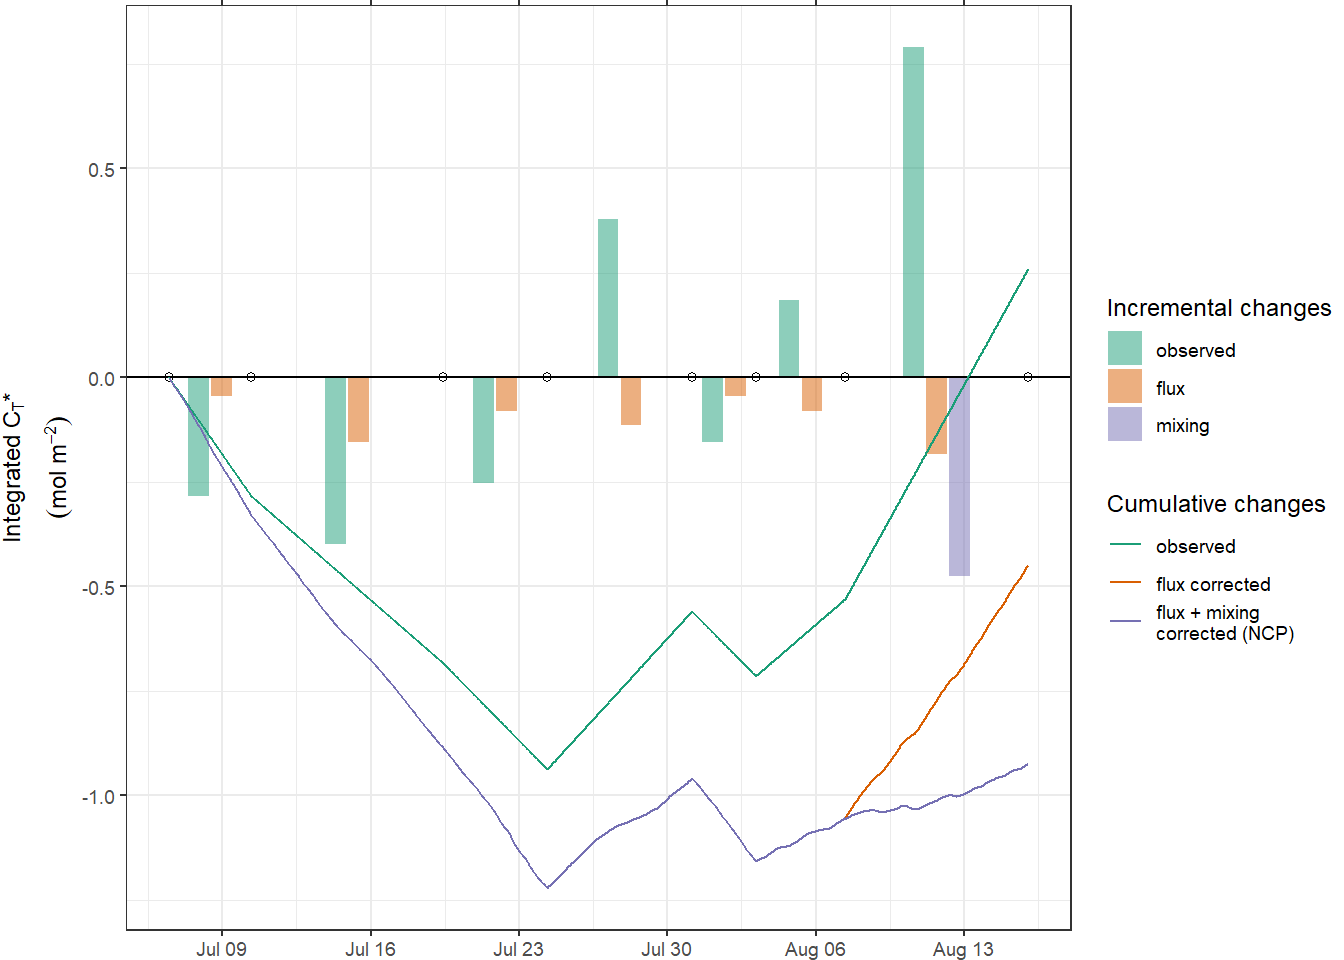
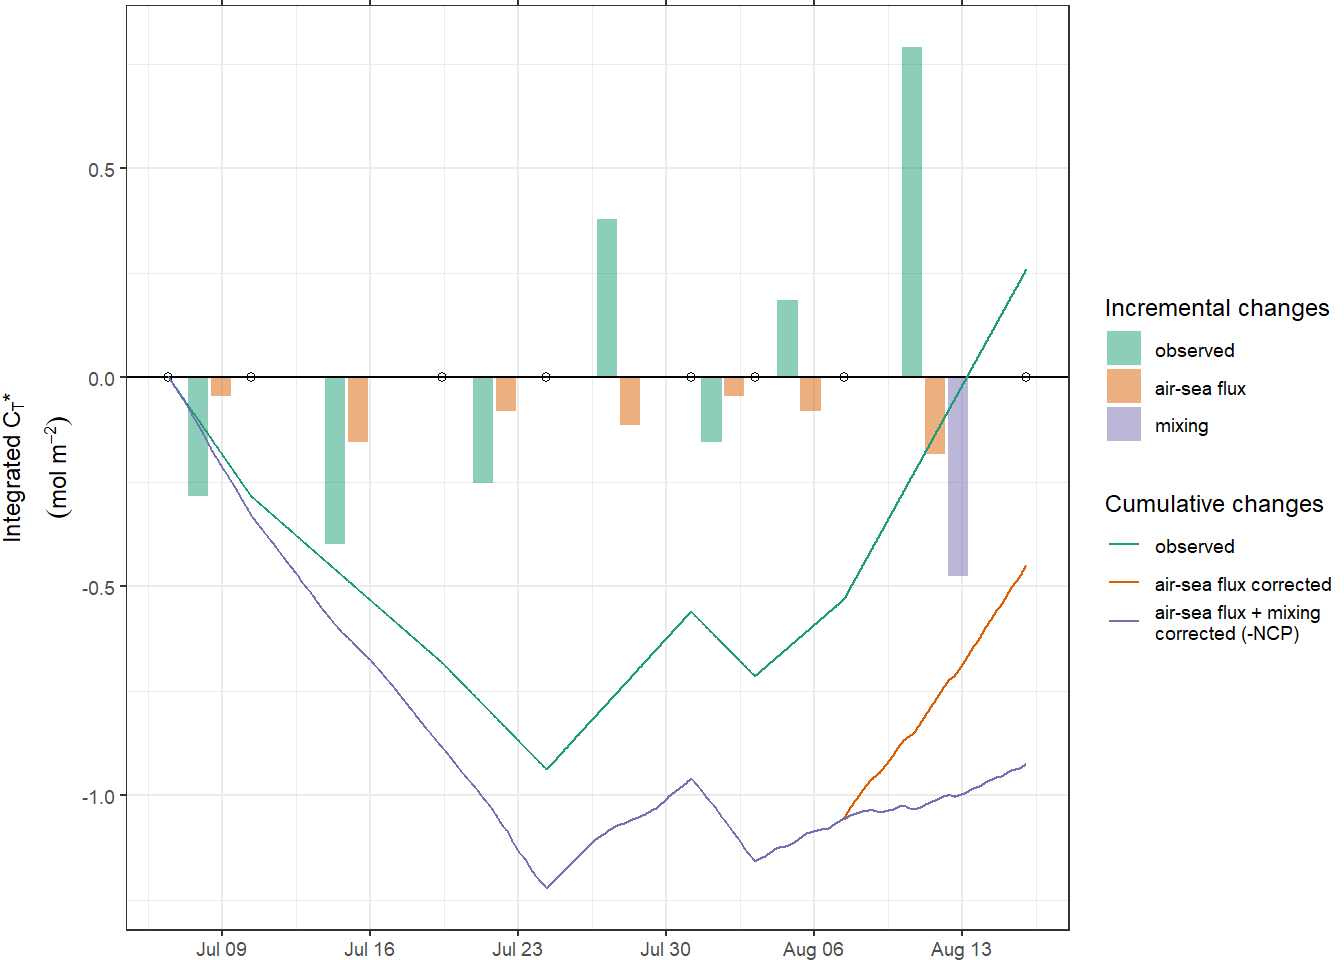
Build site.

diff --git a/docs/NCP_best_guess.html b/docs/NCP_best_guess.html
@@ -451,7 +451,7 @@ div.tocify {
 
 <h1 class="title toc-ignore">NCP best guess</h1>
 <h4 class="author">Jens Daniel Müller</h4>
-<h4 class="date">20 February, 2021</h4>
+<h4 class="date">30 March, 2021</h4>
 
 </div>
 
@@ -476,7 +476,7 @@ div.tocify {
 <div class="tab-content">
 <div id="summary" class="tab-pane fade in active">
 <p>
-<strong>Last updated:</strong> 2021-02-20
+<strong>Last updated:</strong> 2021-03-30
 </p>
 <p>
 <strong>Checks:</strong> <span class="glyphicon glyphicon-ok text-success" aria-hidden="true"></span> 7 <span class="glyphicon glyphicon-exclamation-sign text-danger" aria-hidden="true"></span> 0
@@ -567,16 +567,16 @@ This reproducible <a href="http://rmarkdown.rstudio.com">R Markdown</a> analysis
 <div class="panel panel-default">
 <div class="panel-heading">
 <p class="panel-title">
-<a data-toggle="collapse" data-parent="#workflowr-checks" href="#strongRepositoryversionstrongahrefhttpsgithubcomjensdanielmuellerBloomSailtreeac99c61419331b909c4f08f84ae624f9da63f239targetblankac99c61a"> <span class="glyphicon glyphicon-ok text-success" aria-hidden="true"></span> <strong>Repository version:</strong> <a href="https://github.com/jens-daniel-mueller/BloomSail/tree/ac99c61419331b909c4f08f84ae624f9da63f239" target="_blank">ac99c61</a> </a>
+<a data-toggle="collapse" data-parent="#workflowr-checks" href="#strongRepositoryversionstrongahrefhttpsgithubcomjensdanielmuellerBloomSailtreea520c10a35968558466784d6cc65530aebe15742targetblanka520c10a"> <span class="glyphicon glyphicon-ok text-success" aria-hidden="true"></span> <strong>Repository version:</strong> <a href="https://github.com/jens-daniel-mueller/BloomSail/tree/a520c10a35968558466784d6cc65530aebe15742" target="_blank">a520c10</a> </a>
 </p>
 </div>
[2 lines of base64/hex data omitted]
 <div class="panel-body">
 <p>
 Great! You are using Git for version control. Tracking code development and connecting the code version to the results is critical for reproducibility.
 </p>
 <p>
-The results in this page were generated with repository version <a href="https://github.com/jens-daniel-mueller/BloomSail/tree/ac99c61419331b909c4f08f84ae624f9da63f239" target="_blank">ac99c61</a>. See the <em>Past versions</em> tab to see a history of the changes made to the R Markdown and HTML files.
+The results in this page were generated with repository version <a href="https://github.com/jens-daniel-mueller/BloomSail/tree/a520c10a35968558466784d6cc65530aebe15742" target="_blank">a520c10</a>. See the <em>Past versions</em> tab to see a history of the changes made to the R Markdown and HTML files.
 </p>
 <p>
 Note that you need to be careful to ensure that all relevant files for the analysis have been committed to Git prior to generating the results (you can use <code>wflow_publish</code> or <code>wflow_git_commit</code>). workflowr only checks the R Markdown file, but you know if there are other scripts or data files that it depends on. Below is the status of the Git repository when the results were generated:
@@ -587,6 +587,9 @@ Ignored files:
     Ignored:    .Rproj.user/
     Ignored:    data/
     Ignored:    output/Plots/Figures_publication/.tmp.drivedownload/
+
+Untracked files:
+    Untracked:  data_os-2020-120_submission.zip
 
 </code></pre>
 <p>
@@ -625,6 +628,40 @@ Message
 </tr>
 </thead>
 <tbody>
+<tr>
+<td>
+Rmd
+</td>
+<td>
+<a href="https://github.com/jens-daniel-mueller/BloomSail/blob/a520c10a35968558466784d6cc65530aebe15742/analysis/NCP_best_guess.Rmd" target="_blank">a520c10</a>
+</td>
+<td>
+jens-daniel-mueller
+</td>
+<td>
+2021-03-30
+</td>
+<td>
+revised figure according to RC1
+</td>
+</tr>
+<tr>
+<td>
+html
+</td>
+<td>
+<a href="https://rawcdn.githack.com/jens-daniel-mueller/BloomSail/82145cc414443ab6939af304b470387a9f4a775f/docs/NCP_best_guess.html" target="_blank">82145cc</a>
+</td>
+<td>
+jens-daniel-mueller
+</td>
+<td>
+2021-02-20
+</td>
+<td>
+Build site.
+</td>
+</tr>
 <tr>
 <td>
 Rmd
@@ -5235,7 +5272,7 @@ rm(Sc_W14)</code></pre>
   geom_path(aes(y = flux)) +
   scale_x_datetime(date_breaks = &quot;week&quot;,
                    sec.axis = dup_axis()) +
-  labs(y = expression(atop(F[&quot;daily&quot;], (mol ~ m ^ {
+  labs(y = expression(atop(F[&quot;air-sea, daily&quot;], (mol ~ m ^ {
     -2
   } ~ d ^ {
     -1
@@ -5261,7 +5298,7 @@ p_flux_cum &lt;- tm_og %&gt;%
   scale_fill_discrete(guide = FALSE) +
   scale_x_datetime(date_breaks = &quot;week&quot;,
                    sec.axis = dup_axis()) +
-  labs(y = expression(atop(F[&quot;cum&quot;],
+  labs(y = expression(atop(F[&quot;air-sea, cum&quot;],
                            (mol ~ m ^ {
                              -2
                            })))) +
@@ -5319,7 +5356,8 @@ NCP_flux_diff &lt;- NCP_flux %&gt;%
   select(ID, date_time_ID_ref, observed = CT_star_i_diff, flux = flux_diff) %&gt;%
   pivot_longer(cols = &quot;observed&quot;:&quot;flux&quot;,
                names_to = &quot;var&quot;,
-               values_to = &quot;value_diff&quot;)</code></pre>
+               values_to = &quot;value_diff&quot;) %&gt;% 
+  mutate(var = if_else(var == &quot;flux&quot;, &quot;air-sea flux&quot;, var))</code></pre>
 </div>
 </div>
 <div id="vertical-mixing" class="section level2" number="10.3">
@@ -5488,7 +5526,7 @@ NCP_flux_mix &lt;- NCP_flux_mix %&gt;%
   )</code></pre>
 <pre class="r"><code># reorder factors for plotting
 NCP_flux_mix_diff &lt;- NCP_flux_mix_diff %&gt;%
-  mutate(var = factor(var, c(&quot;observed&quot;, &quot;flux&quot;, &quot;mixing&quot;)))
+  mutate(var = factor(var, c(&quot;observed&quot;, &quot;air-sea flux&quot;, &quot;mixing&quot;)))
 
 NCP_flux_mix_long &lt;- NCP_flux_mix %&gt;%
   select(date_time,
@@ -5502,8 +5540,8 @@ NCP_flux_mix_long &lt;- NCP_flux_mix %&gt;%
     var = fct_recode(
       var,
       observed = &quot;CT_star_i_cum&quot;,
-      `flux corrected` = &quot;CT_star_i_flux_cum&quot;,
-      `flux + mixing\ncorrected (NCP)` = &quot;CT_star_i_flux_mix_cum&quot;
+      `air-sea flux corrected` = &quot;CT_star_i_flux_cum&quot;,
+      `air-sea flux + mixing\ncorrected (-NCP)` = &quot;CT_star_i_flux_mix_cum&quot;
     )
   )
 
@@ -5598,7 +5636,7 @@ loaded via a namespace (and not attached):
  [4] class_7.3-17        rprojroot_2.0.2     fs_1.5.0           
  [7] rstudioapi_0.13     farver_2.0.3        fansi_0.4.1        
 [10] xml2_1.3.2          codetools_0.2-16    knitr_1.30         
-[13] jsonlite_1.7.2      broom_0.7.3         dbplyr_2.0.0       
+[13] jsonlite_1.7.2      broom_0.7.5         dbplyr_2.0.0       
 [16] png_0.1-7           compiler_4.0.3      httr_1.4.2         
 [19] backports_1.2.1     assertthat_0.2.1    cli_2.2.0          
 [22] later_1.1.0.1       htmltools_0.5.0     tools_4.0.3        
